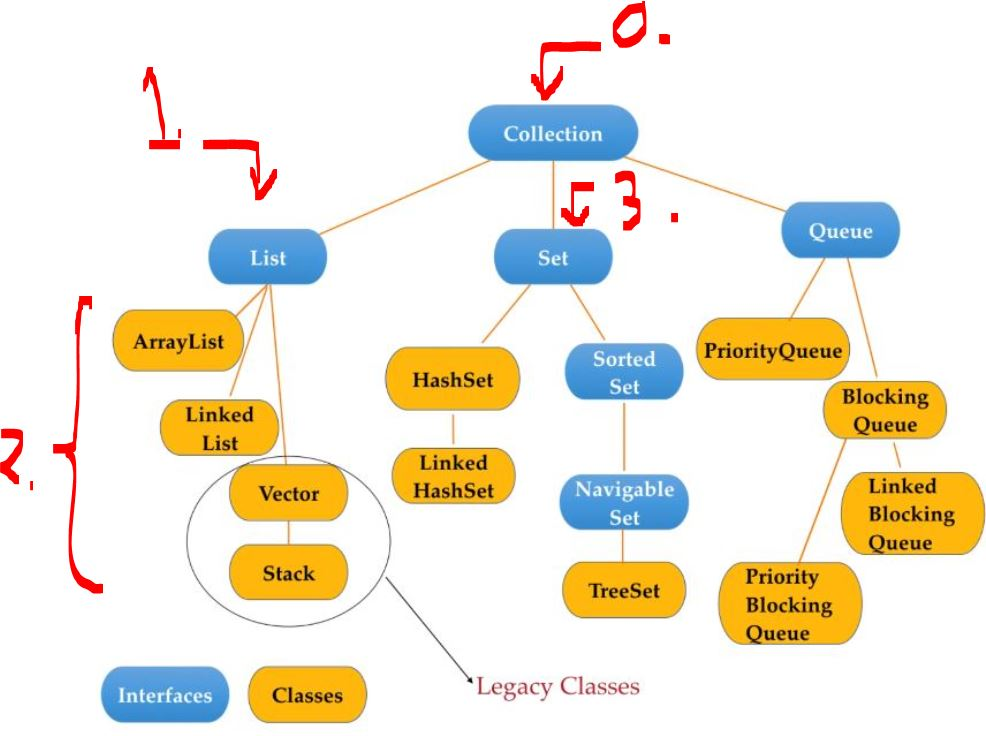
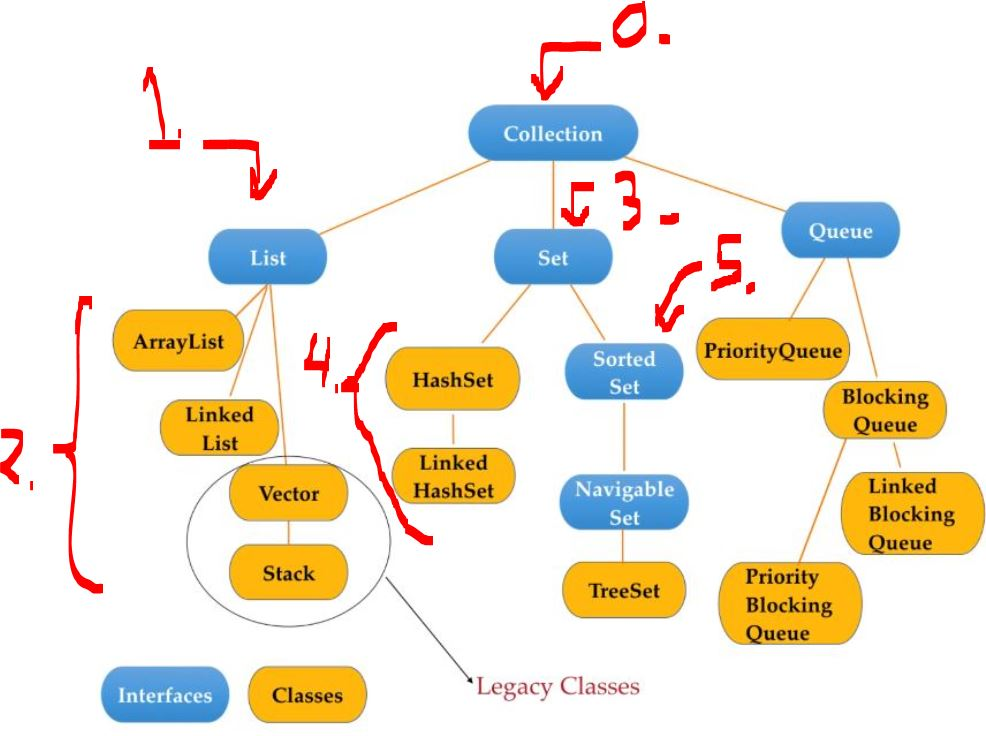
proceeded

diff --git a/Java Collections from basics to Advanced/Section 04/README.md b/Java Collections from basics to Advanced/Section 04/README.md
@@ -29,6 +29,19 @@ Collection Framework.
 </div>
 
 0. **Collection** came part of **Java* from the version `1.2` **JDK**.
-1. Group of objects in single entity, where **List** can have **duplicates**!
+1. Group of objects in single entity, where **List** can have **duplicates**! The **inserting order** is **preserved**!
 2. There are other **subtypes** of the implemented classes!
-3. Group of objects in single entity, **Set** cannot have **duplicates**!
+    - `ArrayList`.
+    - `Linked List`.
+    - `Vector` **(legacy)**.
+3. Group of objects in single entity, **Set** cannot have **duplicates** and the inserted **order** is **not preserved**!
+4. There are other **subtypes** of the implemented classes!
+    - `HashSet`.
+    - `Linked HashSet`.
+5. There is another interface, which implements the `set` interface, it's called `sorted set`.
+    - This has **order preserved**!
+    - This has the still the `set` characteristics, where there are **no** **duplicates**! 
+6. `Navigatble Set` is interface and the `TreeSet` is the implementation of this class!
+    - This is **Sorted Set** and **navigation methods** for ease of use.
+
+

diff --git a/README.md b/README.md
@@ -1,10 +1,10 @@
 <p align="center">
-    <img id="studying" src="Java_Advanced_Caption.png" style="width:900px;height:140px;">
+    <img id="studying" src="Java_Advanced_Caption.png" width="900" height="140">
 </p>
 
-<p align="center">    
-    <img src="Java_Karate_Kid__Repository_Graphics.png" alt="Java Karate Kid Graphic!" width="500" height="350"/>
-    <text>Attempt to study <b>Java</b> itself! Some things which are related to advanced level!</text>
+<p align="center">
+    <img src="Java_Karate_Kid__Repository_Graphics.png" alt="Java Karate Kid Graphic!" width="500" height="350">
+    Attempt to study <b>Java</b> itself! Some things which are related to advanced level!
 </p>
 
 - For these courses one should configure **GIT** for handle projects.
@@ -19,7 +19,7 @@
 
 All course material from *Advanced Java Topics: Java Reflection - Master Class* by **Top Developer Academy LLC** and **Michael Pogrebinsky** ©. 
 
-> . 🐟🐟🐟 <br><br>
+>. 🐟🐟🐟 <br><br>
 ~ *DevelopersCradle*
 
 Contains my own with my own visual notes ✍ with some course material to enforce learning experience.
